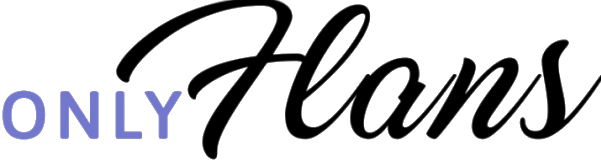
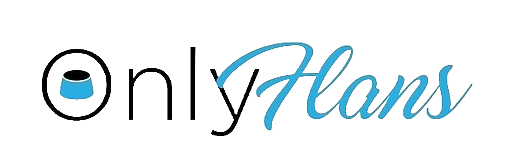
actulizando

diff --git a/web/templates/navbar.html b/web/templates/navbar.html
@@ -2,23 +2,20 @@
 
 <nav class="navbar navbar-expand-lg bg-gradient bg-info">
     <div class="container-fluid">
-      <a class="navbar-brand" href="#">Navbar</a>
+      <a class="navbar-brand" href="#"><img src="{% static 'Onlyflans.png'%}" style="width: 3rem;" class="img"></a>
       <button class="navbar-toggler" type="button" data-bs-toggle="collapse" data-bs-target="#navbarNav" aria-controls="navbarNav" aria-expanded="false" aria-label="Toggle navigation">
         <span class="navbar-toggler-icon"></span>
       </button>
       <div class="collapse navbar-collapse" id="navbarNav">
         <ul class="navbar-nav">
           <li class="nav-item">
-            <a class="nav-link active" aria-current="page" href="#">Home</a>
+            <a class="nav-link active" aria-current="page" href="/">Inicio</a>
           </li>
           <li class="nav-item">
-            <a class="nav-link" href="#">Features</a>
+            <a class="nav-link" href="/welcome">Bienvenido</a>
           </li>
           <li class="nav-item">
-            <a class="nav-link" href="#">Pricing</a>
-          </li>
-          <li class="nav-item">
-            <a class="nav-link disabled" aria-disabled="true">Disabled</a>
+            <a class="nav-link" href="/about">Acerca</a>
           </li>
         </ul>
       </div>

diff --git a/web/templates/welcome.html b/web/templates/welcome.html
@@ -1,7 +1,6 @@
 {% extends 'base.html' %}
 {% block template %}
-        
-        <h1 class="text-center">Flanes Privados</h1>
+    <h1 class="text-center">Flanes Privados</h1>
         <div class="row">
             {% for flan in flanes %}
             <div class="col-md-4 mb-4">
@@ -15,5 +14,4 @@
             </div>
             {% endfor %}
         </div>
-
 {% endblock %}

diff --git a/web/templates/base.html b/web/templates/base.html
@@ -18,8 +18,6 @@
         <div class="sticky-bottom fixed-bottom  ">
             {% include 'footer.html' %}
         </div>
-        
-    
     <script src="https://cdn.jsdelivr.net/npm/bootstrap@5.3.3/dist/js/bootstrap.bundle.min.js" integrity="sha384-YvpcrYf0tY3lHB60NNkmXc5s9fDVZLESaAA55NDzOxhy9GkcIdslK1eN7N6jIeHz" crossorigin="anonymous"></script>
 </body>
 

diff --git a/web/templates/header.html b/web/templates/header.html
@@ -1,5 +1,4 @@
 {% load static %}
-
 <div style="background: red;" class="container-fluid">
     <div class="col-4 offset-4">
         <img src="{% static 'Only-Flans.png'%}" alt="" class="img-fluid">

diff --git a/web/templates/about.html b/web/templates/about.html
@@ -1,4 +1,4 @@
-{% block 'base' %}
-{% include 'base.html' %}
+{% extends 'base.html' %}
+{% block template %}
 <div>Acerca</div>
 {% endblock %}
